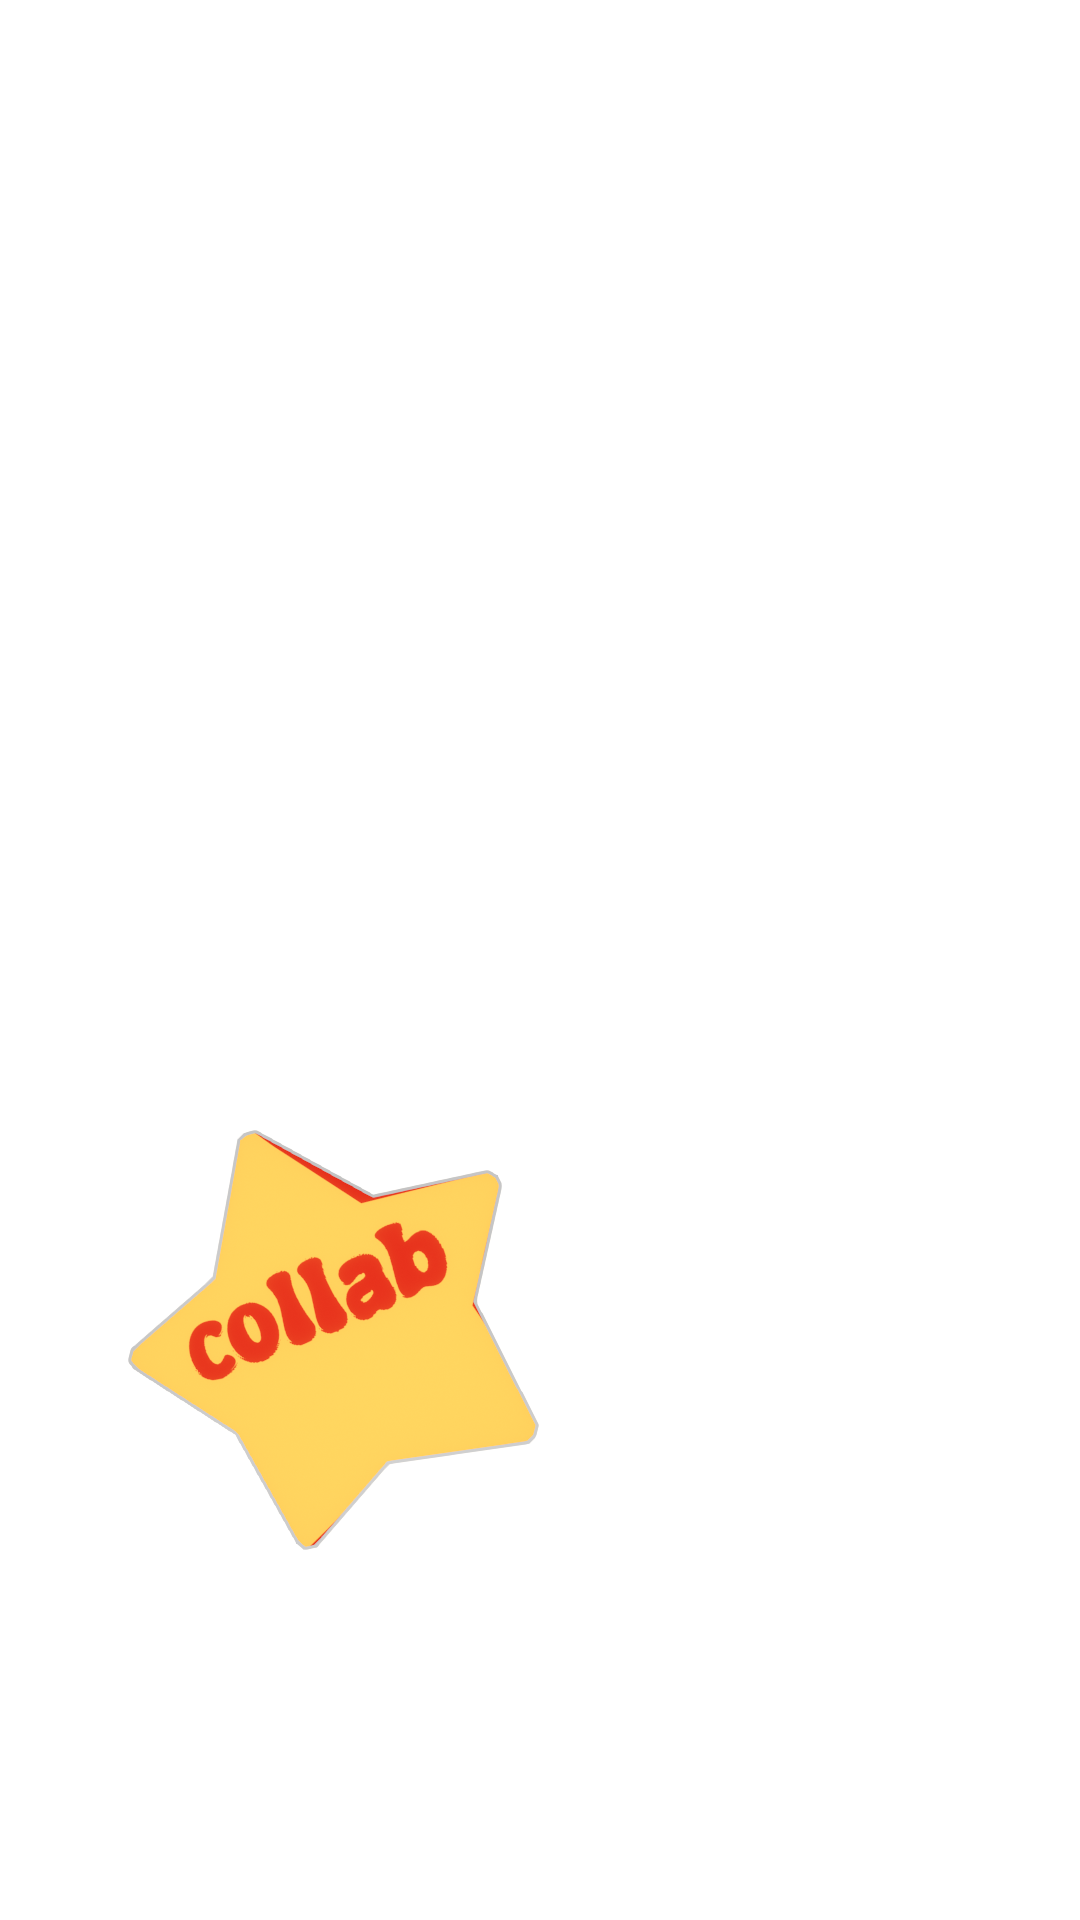
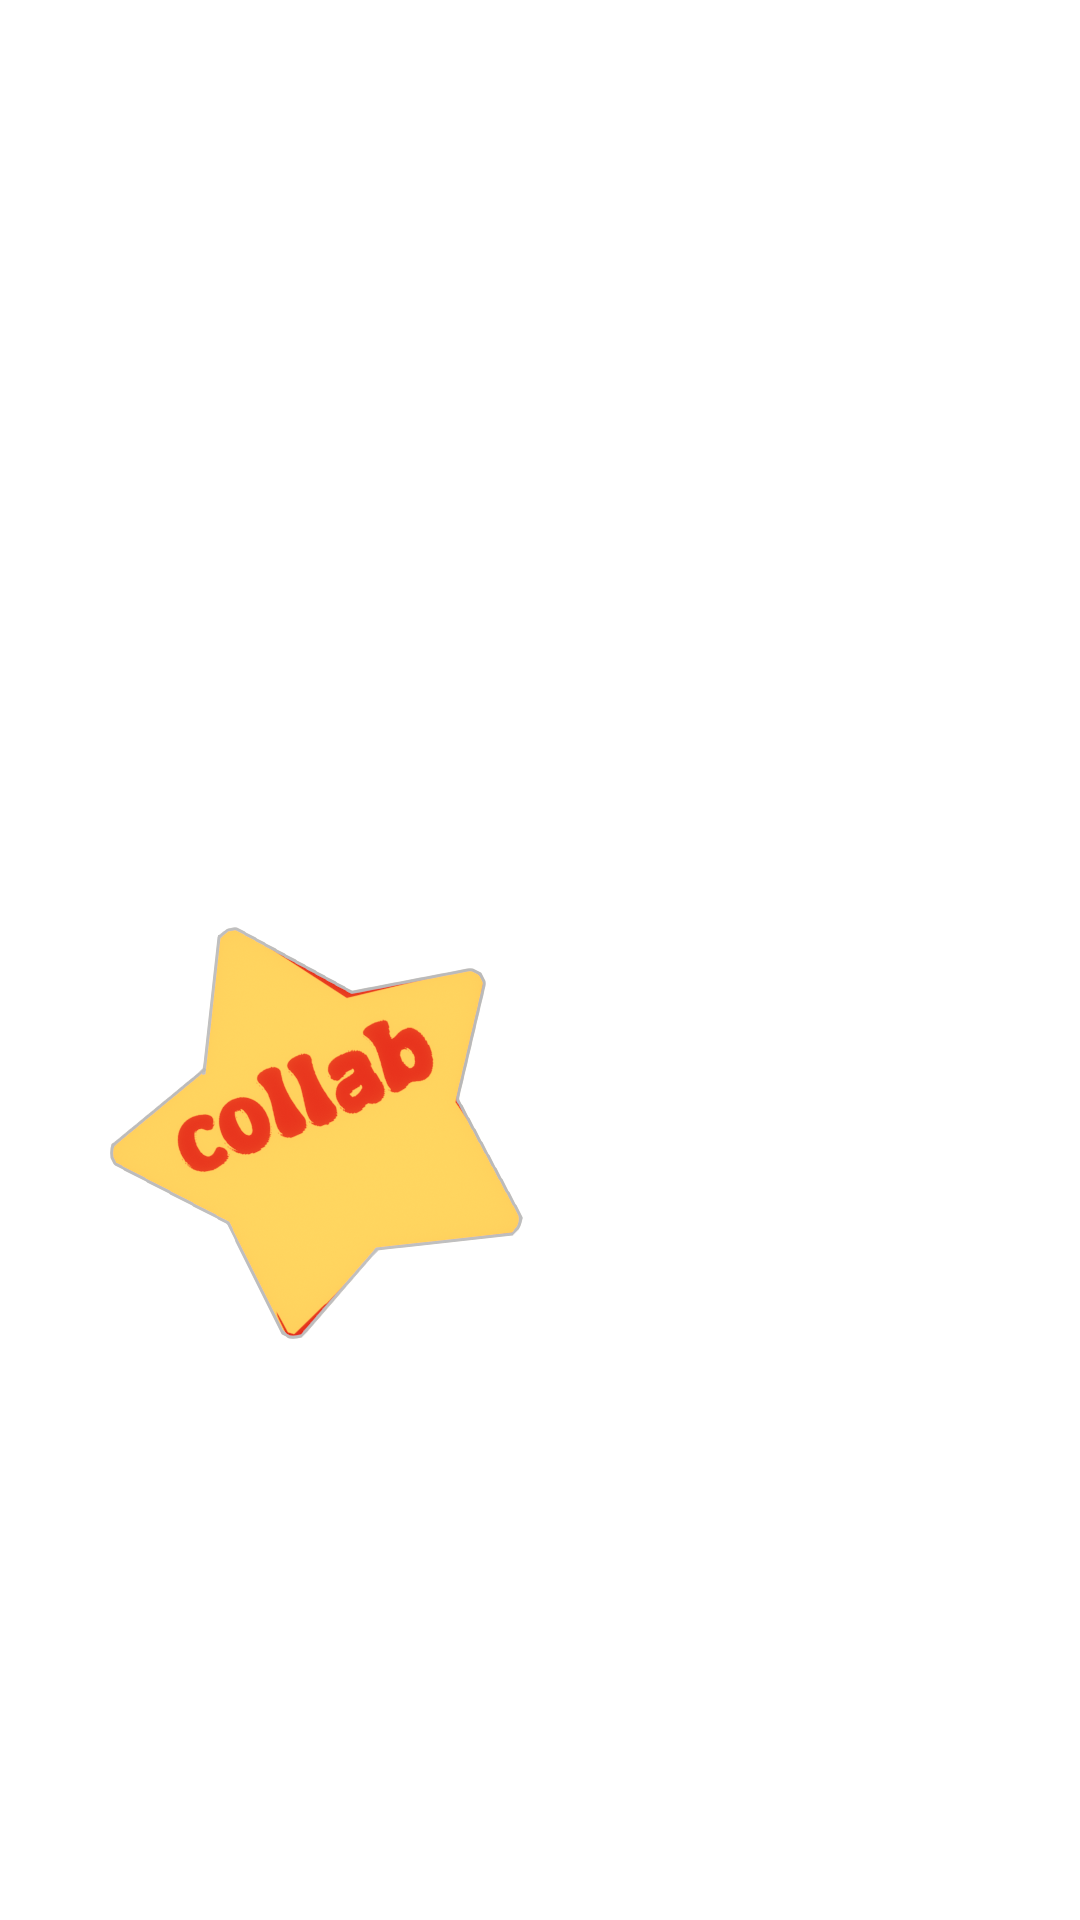
"complete interactive main menu"

Changed region(s): [[0.0917, 0.4688, 0.5194, 0.8125]]

diff --git a/src/components/Home.js b/src/components/Home.js
@@ -1,6 +1,7 @@
 import classes from './Home.module.css'
-import { HomeItem } from './HomeItem'
 import { useState } from "react"
+import { Star } from './Star'
+import { NavLink } from 'react-router-dom'
 
 
 export const Home = () => {
@@ -26,14 +27,48 @@ export const Home = () => {
     }
     return (
         <div className={`${classes.grid}`}>
-            <div className={`${classes.about}`}><p>about</p></div>
-            <div className={`${classes.showcase}`}><p>showcase</p></div>
-            <div className={`${classes.shop}`}><p>shop</p></div>
-            <div className={`${classes.vlog}`}><p>vlog</p></div>
-            <div className={`${classes.collab}`} onMouseOver={()=> handleOver('collab')} onMouseOut={()=> handleOut('collab')}>
-                <HomeItem cat="collab" img={collabImg}/>
+            <div className={`${classes.about}`} onMouseOver={()=> handleOver('about')} onMouseOut={()=> handleOut('about')} onPointerOver={()=>handleOver('about')} onPointerOut={()=>handleOut('about')}>
+                <NavLink to="/about">
+                    <div className={`${classes.top}`}>
+                    </div>
+                </NavLink>
+                <Star cat="about" img={aboutImg}/>
             </div>
-            <div className={`${classes.hire}`}><p>hire</p></div>
+            <div className={`${classes.collab}`} onMouseOver={()=> handleOver('collab')} onMouseOut={()=> handleOut('collab')} onPointerOver={()=>handleOver('collab')} onPointerOut={()=>handleOut('collab')}>
+                <NavLink to="/collab">
+                    <div className={`${classes.top}`}>
+                    </div>
+                </NavLink>
+                <Star cat="collab" img={collabImg}/>
+            </div>
+            <div className={`${classes.hire}`} onMouseOver={()=> handleOver('hire')} onMouseOut={()=> handleOut('hire')} onPointerOver={()=>handleOver('hire')} onPointerOut={()=>handleOut('hire')}>
+                <NavLink to="/hire">
+                    <div className={`${classes.top}`}>
+                    </div>
+                </NavLink>
+                <Star cat="hire" img={hireImg}/>
+            </div>
+            <div className={`${classes.shop}`} onMouseOver={()=> handleOver('shop')} onMouseOut={()=> handleOut('shop')} onPointerOver={()=>handleOver('shop')} onPointerOut={()=>handleOut('shop')}>
+                <NavLink to="/shop">
+                    <div className={`${classes.top}`}>
+                    </div>
+                </NavLink>
+                <Star cat="shop" img={shopImg}/>
+            </div>
+            <div className={`${classes.showcase}`} onMouseOver={()=> handleOver('showcase')} onMouseOut={()=> handleOut('showcase')} onPointerOver={()=>handleOver('showcase')} onPointerOut={()=>handleOut('showcase')}>
+                <NavLink to="/showcase">
+                    <div className={`${classes.top}`}>
+                    </div>
+                </NavLink>
+                <Star cat="showcase" img={showcaseImg}/>
+            </div>
+            <div className={`${classes.vlog}`} onMouseOver={()=> handleOver('vlog')} onMouseOut={()=> handleOut('vlog')} onPointerOver={()=>handleOver('vlog')} onPointerOut={()=>handleOut('vlog')}>
+                <NavLink to="/vlog">
+                    <div className={`${classes.top}`}>
+                    </div>
+                </NavLink>
+                <Star cat="vlog" img={vlogImg}/>
+            </div>
         </div>
     )
 }

diff --git a/src/components/Star.js b/src/components/Star.js
@@ -2,9 +2,24 @@ import classes from "./Star.module.css"
 import menu_pic from "../assets/img/menu.png"
 import menu_on from "../assets/gifs/menu_on.gif"
 import menu_off from "../assets/gifs/menu_off.gif"
+import about_pic from "../assets/img/about.png"
+import about_on from "../assets/gifs/about_on.gif"
+import about_off from "../assets/gifs/about_off.gif"
 import collab_pic from "../assets/img/collab.png"
 import collab_on from "../assets/gifs/collab_on.gif"
 import collab_off from "../assets/gifs/collab_off.gif"
+import hire_pic from "../assets/img/hire.png"
+import hire_on from "../assets/gifs/hire_on.gif"
+import hire_off from "../assets/gifs/hire_off.gif"
+import shop_pic from "../assets/img/shop.png"
+import shop_on from "../assets/gifs/shop_on.gif"
+import shop_off from "../assets/gifs/shop_off.gif"
+import showcase_pic from "../assets/img/showcase.png"
+import showcase_on from "../assets/gifs/showcase_on.gif"
+import showcase_off from "../assets/gifs/showcase_off.gif"
+import vlog_pic from "../assets/img/vlog.png"
+import vlog_on from "../assets/gifs/vlog_on.gif"
+import vlog_off from "../assets/gifs/vlog_off.gif"
 
 const catDirectory = {
     menu: {
@@ -12,16 +27,36 @@ const catDirectory = {
         on : <img src={menu_on} className={`${classes.icon}`} alt="menu icon"/>,
         off : <img src={menu_off} className={`${classes.icon}`} alt="menu icon"/>
     },
-    about: 'about_img',
+    about: {
+        pic : <img src={about_pic} className={`${classes.full}`} alt="about icon"/>,
+        on : <img src={about_on} className={`${classes.full}`} alt="about icon"/>,
+        off : <img src={about_off} className={`${classes.full}`} alt="about icon"/>
+    },
     collab: {
         pic : <img src={collab_pic} className={`${classes.full}`} alt="collab icon"/>,
         on : <img src={collab_on} className={`${classes.full}`} alt="collab icon"/>,
         off : <img src={collab_off} className={`${classes.full}`} alt="collab icon"/>
     },
-    hire: 'hire_img',
-    shop: 'shop_img',
-    showcase: 'showcase_img',
-    vlog: 'vlog_img'
+    hire: {
+        pic : <img src={hire_pic} className={`${classes.full}`} alt="hire icon"/>,
+        on : <img src={hire_on} className={`${classes.full}`} alt="hire icon"/>,
+        off : <img src={hire_off} className={`${classes.full}`} alt="hire icon"/>
+    },
+    shop: {
+        pic : <img src={shop_pic} className={`${classes.full}`} alt="shop icon"/>,
+        on : <img src={shop_on} className={`${classes.full}`} alt="shop icon"/>,
+        off : <img src={shop_off} className={`${classes.full}`} alt="shop icon"/>
+    },
+    showcase: {
+        pic : <img src={showcase_pic} className={`${classes.full}`} alt="showcase icon"/>,
+        on : <img src={showcase_on} className={`${classes.full}`} alt="showcase icon"/>,
+        off : <img src={showcase_off} className={`${classes.full}`} alt="showcase icon"/>
+    },
+    vlog: {
+        pic : <img src={vlog_pic} className={`${classes.full}`} alt="vlog icon"/>,
+        on : <img src={vlog_on} className={`${classes.full}`} alt="vlog icon"/>,
+        off : <img src={vlog_off} className={`${classes.full}`} alt="vlog icon"/>
+    },
 }
 
 export const Star = ({cat, img}) => {

diff --git a/src/components/About/About.js b/src/components/About/About.js
@@ -1,7 +1,11 @@
 import { NavLink } from "react-router-dom"
+import classes from "../Root.module.css"
+import boom from "../../assets/gifs/about_boom.gif"
+
 export const About = () => {
     return (
         <div>
+            <img className={`${classes.boom}`} src={boom} alt="the dork that wrote this website"/>
             <img src="me" alt="the dork that wrote this website"/>
             <NavLink to="/about/bio">Bio</NavLink>
             <NavLink to="/about/causes">Causes</NavLink>

diff --git a/src/components/Root.module.css b/src/components/Root.module.css
@@ -25,10 +25,18 @@ header{
 }
 
 .portal {
-    height: 50vh;
+    height: 45vh;
 }
 
 footer{
     padding: .5em;
-    height: 35vh;
+    height: 40vh;
+}
+
+.boom {
+    position: absolute;
+    top: 0;
+    left: 0;
+    width: 100%;
+    pointer-events: none;
 }

diff --git a/src/components/Home.module.css b/src/components/Home.module.css
@@ -1,3 +1,9 @@
+.top {
+    height: 100%;
+    width: 100%;
+    z-index: 2;
+}
+
 .grid {
     color: white;
     display: grid;
@@ -7,7 +13,6 @@
         "collab hire";
     height: 100%;
 }
-
 
 .about {
     grid-area: about;

diff --git a/src/components/Star.module.css b/src/components/Star.module.css
@@ -8,4 +8,5 @@
     top: 0;
     left: 0;
     pointer-events: none;
+    z-index: 1;
 }
